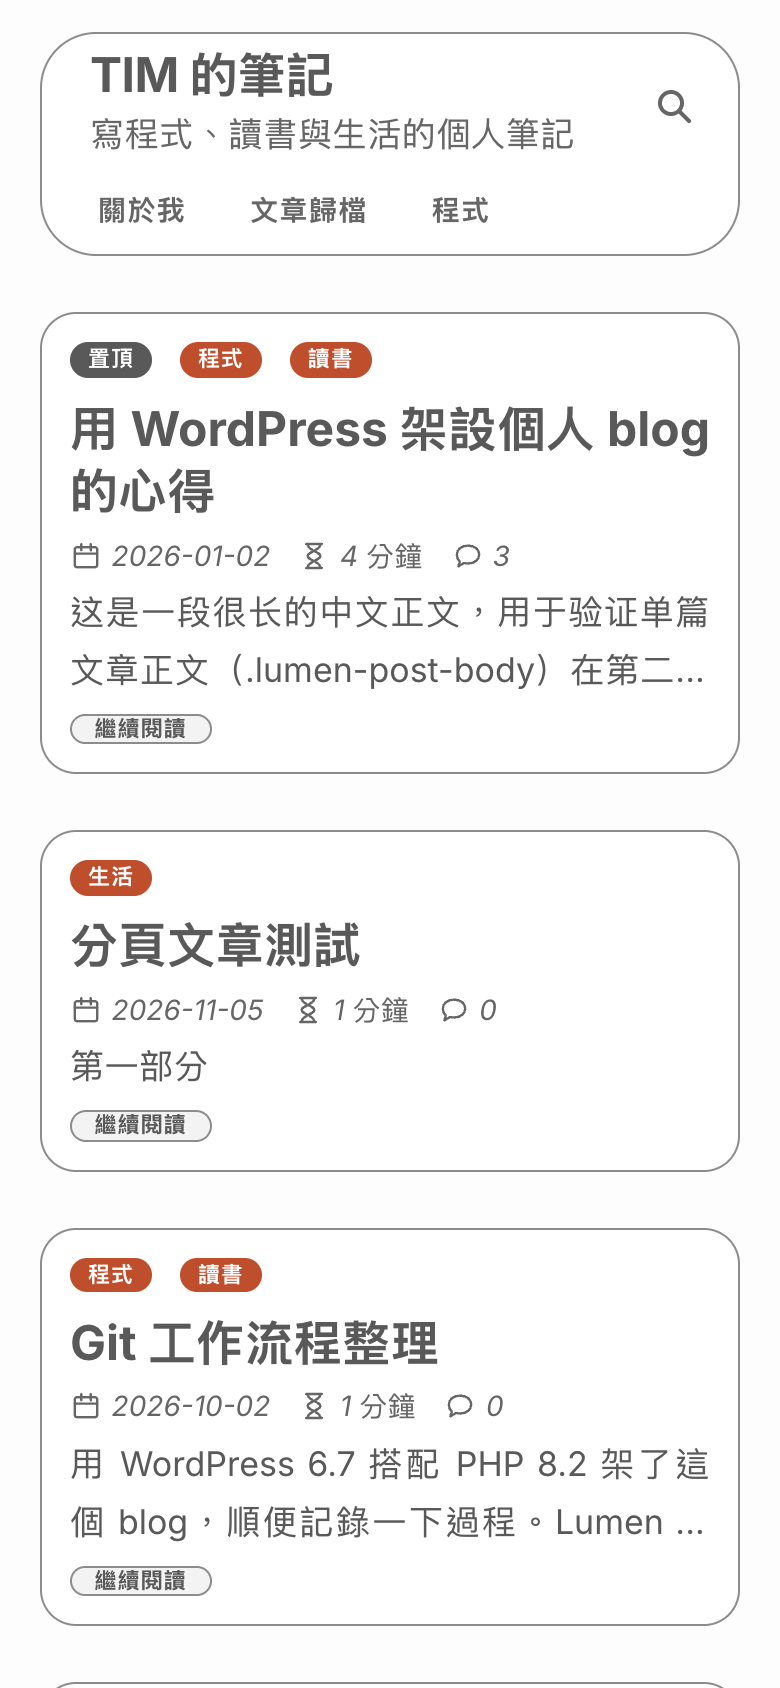
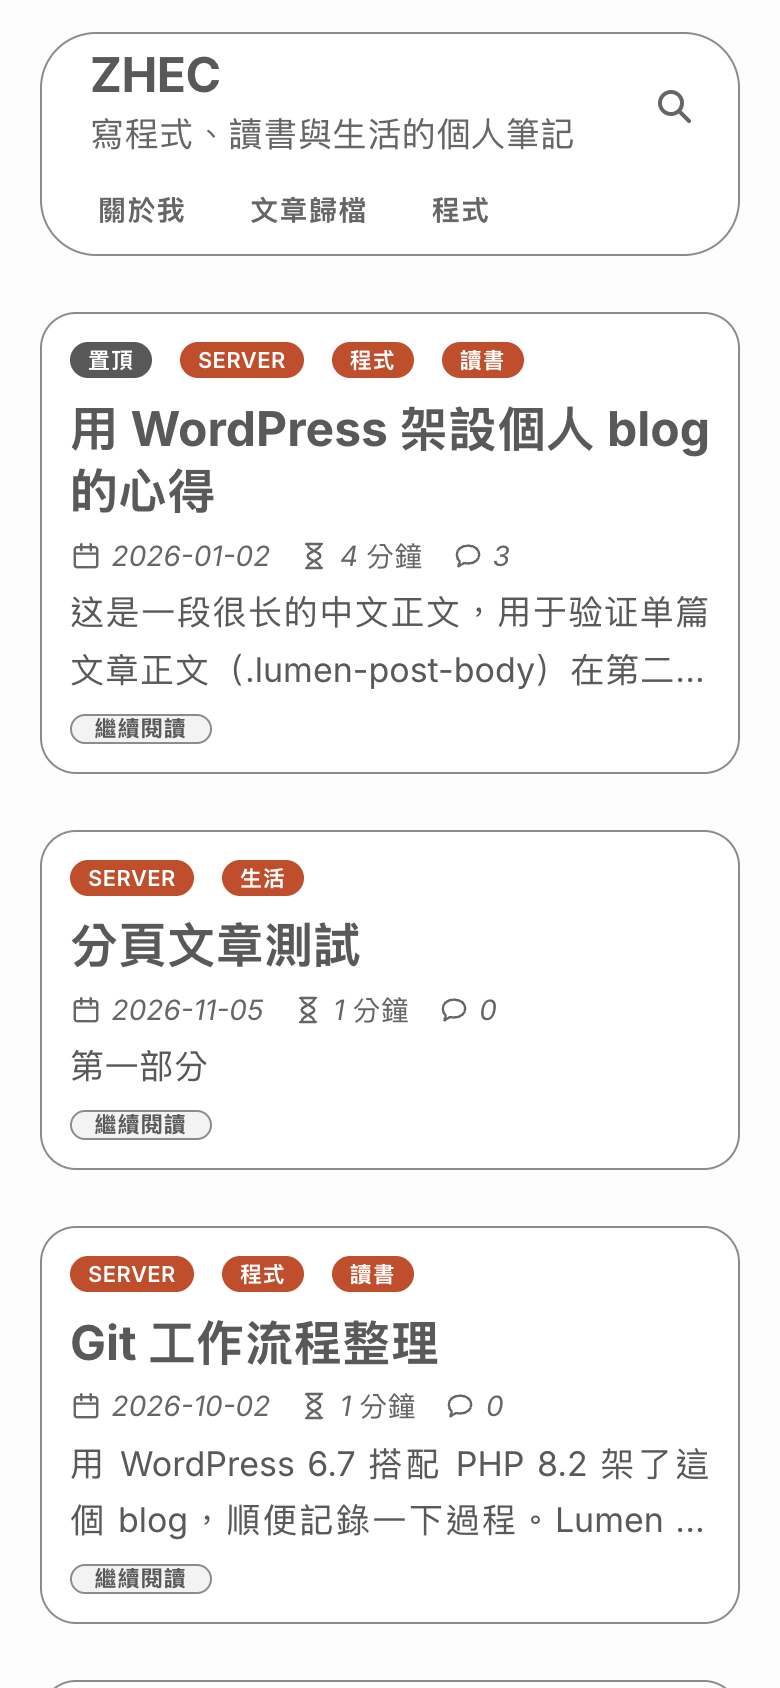
1.3.8：膠囊文字置中（整數行高）；紅色頁尾；頁尾基線對齊

diff --git a/lumen/assets/css/main.css b/lumen/assets/css/main.css
@@ -2,7 +2,7 @@
    Lumen — all theme styles.
 
    One visual language everywhere: white outlined shapes (no shadows), grey
-   text, one accent colour, a dark footer band.
+   text, one accent colour, an accent footer band.
 
    1. Tokens (light + dark)      7. Single post / page
    2. Base & typography          8. Comments
@@ -42,21 +42,23 @@
 	--bg: #fdfdfd;
 	--bg-soft: #f3f3f3;
 	--card: #ffffff;
-	/* Greys rather than black, everywhere (text, outlines, footer). */
+	/* Greys rather than black, everywhere (text, outlines). */
 	--fg: #595959;
 	--fg-soft: #666666;
 	--muted: #757575;
 	--line: #8c8c8c;            /* outlines */
 	--rule: #e4e4e4;            /* hairline dividers */
 	/* The one accent colour. Used for exactly three things:
-	   1. category pills;
+	   1. category pills (and the footer band, which matches them);
 	   2. the hover state of anything clickable (links, icons, buttons);
 	   3. "you are here": the current menu item and breadcrumb.
 	   Everything else is neutral. Never add a second red. */
 	--accent: #bf4f2c;
-	--footer-bg: #616161;
-	--footer-fg: #f7f7f7;
-	--footer-muted: #e4e4e4;
+	/* Footer band = a category pill: accent fill, text in the card colour
+	   (links slightly softer, full strength on hover). */
+	--footer-bg: var(--accent);
+	--footer-fg: var(--card);
+	--footer-muted: color-mix(in srgb, var(--card) 82%, var(--accent));
 
 
 	/* One typeface stack for everything: Inter for English, the system
@@ -97,9 +99,6 @@
 		--line: #5a5d62;
 		--rule: #2e3033;
 		--accent: #d97859;
-		--footer-bg: #0d0e0f;
-		--footer-fg: #e9e8e4;
-		--footer-muted: #94938e;
 	}
 
 	img:not([src$=".svg"]) {
@@ -581,7 +580,7 @@ body:has(#lumen-search:popover-open) .lumen-search-toggle {
 	}
 }
 
-/* Footer: one centred line on a dark full-width band. */
+/* Footer: one centred line on a full-width accent band. */
 .lumen-footer {
 	padding-block: 0.375rem;
 	color: var(--footer-fg);
@@ -628,6 +627,7 @@ body:has(#lumen-search:popover-open) .lumen-search-toggle {
 .lumen-footer-nav .lumen-menu a {
 	padding: 0;
 	font-size: inherit;
+	line-height: inherit; /* same baseline as the copyright and RSS */
 	color: var(--footer-muted);
 	background: none;
 	border-radius: 0;
@@ -657,7 +657,7 @@ body:has(#lumen-search:popover-open) .lumen-search-toggle {
 	padding: 0 8px;
 	font-size: var(--text-2xs);
 	font-weight: 600;
-	line-height: 1.45;
+	line-height: 16px; /* whole pixels: keeps Latin capitals centred (measured) */
 	letter-spacing: 0.02em;
 	font-variant-numeric: tabular-nums;
 	white-space: nowrap;
@@ -832,7 +832,7 @@ a.lumen-stat:hover {
 	padding-inline: 0.7rem;
 	background: var(--bg-soft);
 	font-size: var(--text-2xs);
-	line-height: 1.2;
+	line-height: 13px;
 	font-style: italic;
 	font-synthesis-style: none;
 }

diff --git a/lumen/style.css b/lumen/style.css
@@ -4,7 +4,7 @@ Theme URI: https://github.com/wwintj/lumen
 Author: Lumen Team
 Author URI: https://github.com/wwintj
 Description: A personal blog theme for Chinese and English writing: outlined cards in a two-column masonry, a one-line capsule header, one accent colour, automatic dark mode, reading time, and a year-by-year archive page. Zero JavaScript; English text uses a bundled 29 KB subset of Inter (SIL OFL 1.1).
-Version: 1.3.7
+Version: 1.3.8
 Requires at least: 6.3
 Tested up to: 7.1
 Requires PHP: 8.2

diff --git a/lumen/functions.php b/lumen/functions.php
@@ -11,7 +11,7 @@ if ( ! defined( 'ABSPATH' ) ) {
 	exit;
 }
 
-define( 'LUMEN_VERSION', '1.3.7' );
+define( 'LUMEN_VERSION', '1.3.8' );
 define( 'LUMEN_DIR', get_template_directory() );
 define( 'LUMEN_URI', get_template_directory_uri() );
 

diff --git a/CHANGELOG.md b/CHANGELOG.md
@@ -2,6 +2,13 @@
 
 正式發布版本、ZIP 與校驗碼以 [GitHub Releases](https://github.com/wwintj/lumen/releases) 為準。
 
+## 1.3.8
+
+- **膠囊文字置中**：行高 1.45（15.95px）在像素取整時讓英文大寫偏上約 1px（實測上 8／下 12 物理像素）。
+  膠囊改為整數行高 16px、READ MORE 改為 13px，總高度不變；實測上下各 10 物理像素。
+- **紅色頁尾**：頁尾色帶改為 `--accent` 底、`--card` 字，與分類膠囊相同；連結稍淡、懸停全白。深色模式自動跟隨（亮紅底、深色字）。
+- **頁尾基線**：選單連結改為繼承行高，與版權、RSS 在同一基線（原本低 0.7px）。
+
 ## 1.3.7
 
 - **滑動膠囊**：頁首導覽與麵包屑的目前項目墊一塊淺灰（`--bg-soft`）膠囊；滑鼠移到其他項目時膠囊滑過去，移開後滑回。
